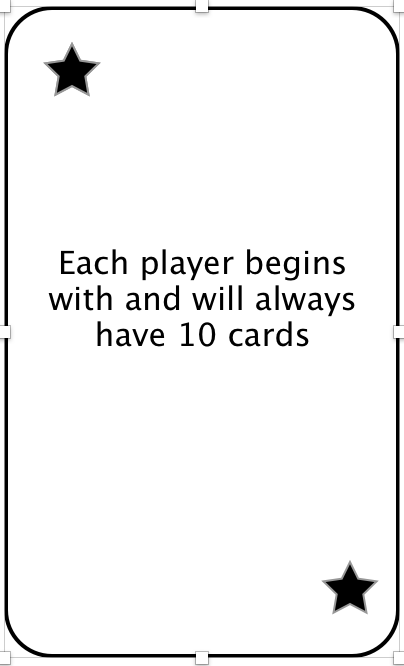
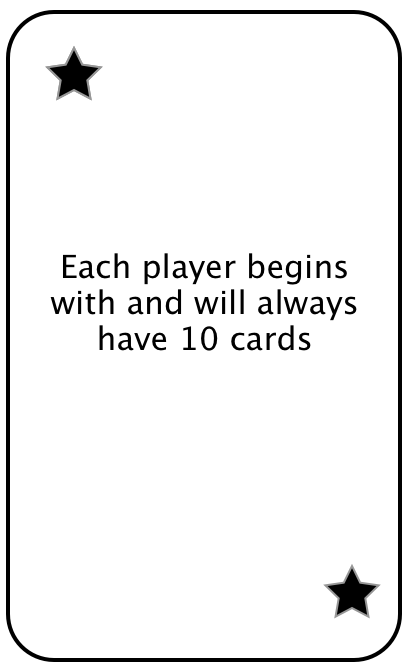
feat(implement-feedback):implement feedback - change to indentation from 4 spaces to 2 - change card image

diff --git a/public/views/index.html b/public/views/index.html
@@ -1,142 +1,136 @@
 <div landing>
   <nav class="navbar navbar-expand-sm navbar-light navbar-inverse bg-light fixed-top ">
-    <a class="navbar-brand type" href="#" style ="cursor:pointer"><span id = "cards">Cards</span> For Humanity</a>
-    <button class="navbar-toggler" type="button" data-toggle="collapse" data-target="#navbarSupportedContent" aria-controls="navbarSupportedContent" aria-expanded="false" aria-label="Toggle navigation">
-        <span class="navbar-toggler-icon"></span>
+    <a class="navbar-brand type" href="#" style="cursor:pointer">
+      <span id="cards">Cards</span> For Humanity</a>
+    <button class="navbar-toggler" type="button" data-toggle="collapse" data-target="#navbarSupportedContent" aria-controls="navbarSupportedContent"
+      aria-expanded="false" aria-label="Toggle navigation">
+      <span class="navbar-toggler-icon"></span>
     </button>
-
     <div class="collapse navbar-collapse" id="navbarSupportedContent" ng-controller="IndexController">
-        <ul class="navbar-nav ml-auto">         
-                <li class="nav-item" ng-show="showOptions">
-                <a href="#!/signup" class="nav-link nov mr-3 text-dark" style = "border-radius: 10px;">Sign Up</a>           
-                </li>
-                <li class="nav-item" ng-show="showOptions">
-                <a href="#!/signin" class="nav-link  mr-3 text-dark" style = "border-radius: 10px;">Sign In</a>
-                </li>
-           
-            <span ng-hide="showOptions">
-                <li >
-                  <a  class="nav-link  mr-3 text-dark" style = "border-radius: 10px;" ng-click="logOut()">Sign Out</a>
-                </li>
-            </span>     
-            <li class="nav-item">
-                <a href="#!" class="nav-link mr-3 text-dark" style = "border-radius: 10px;">Donate</a>
-            </li>
-        
-        </ul>    
-    </div>  
-    </nav>
-  <div id = "home-section">
-      <div id = "overlay">
+      <ul class="navbar-nav ml-auto">
+        <li class="nav-item" ng-show="showOptions">
+          <a href="#!/signup" class="nav-link nov mr-3 text-dark" style="border-radius: 10px;">Sign Up</a>
+        </li>
+        <li class="nav-item" ng-show="showOptions">
+          <a href="#!/signin" class="nav-link  mr-3 text-dark" style="border-radius: 10px;">Sign In</a>
+        </li>
+        <span ng-hide="showOptions">
+          <li>
+            <a class="nav-link  mr-3 text-dark" style="border-radius: 10px;" ng-click="logOut()">Sign Out</a>
+          </li>
+        </span>
+        <li class="nav-item">
+          <a href="#!" class="nav-link mr-3 text-dark" style="border-radius: 10px;">Donate</a>
+        </li>
+      </ul>
+    </div>
+  </nav>
+  <div id="home-section">
+    <div id="overlay">
       <div class="container-fluid">
-          <div class="row position">
-              <div class="col-md-12">
-                  <h1 id ="name" class="text-white type">Cards For Humanity</h1>
-                  <h3 id ="story" class="text-white type">...a game for good people</h3>
-                  <button onclick="window.location.href='/play'" class="button1 pl-3 pr-3 text-white mr-5">Play as a Guest</button>
-                  <button onclick="window.location.href='#!/signup'"class="button1 pl-5 pr-5 text-white ml-auto">Sign Up</button>
-              </div>
+        <div class="row position">
+          <div class="col-md-12">
+            <h1 id="name" class="text-white type">Cards For Humanity</h1>
+            <h3 id="story" class="text-white type">...a game for good people</h3>
+            <button onclick="window.location.href='/play'" class="button1 pl-3 pr-3 text-white mr-5">Play as a Guest</button>
+            <button onclick="window.location.href='#!/signup'" class="button1 pl-5 pr-5 text-white ml-auto">Sign Up</button>
           </div>
-
+        </div>
       </div>
-  </div>
+    </div>
   </div>
 
-  <section id ="explore-head-section" class="bg-light text-muted ">
-      <div class= "container-fluid">
-              <h3 class="head pt-3 type">How To Play...</h3>
-              
-        <div class= "pt-5">
-            <div class="row">
-        <div class = "col-lg-3 col-sm-12 ">
-              <img src="/img/cards/11.png" class="img-responsive img-size animated jackInTheBox">
+  <section id="explore-head-section" class="bg-light text-muted ">
+    <div class="container-fluid">
+      <h3 class="head pt-3 type">How To Play...</h3>
+      <div class="pt-5">
+        <div class="row">
+          <div class="col-lg-3 col-sm-12 ">
+            <img src="/img/cards/11.png" class="img-responsive img-size animated jackInTheBox">
+          </div>
+          <div class="col-lg-3 col-sm-12 ">
+            <img src="/img/cards/22.png" class="img-responsive img-size animated jackInTheBox">
+          </div>
+          <div class="col-lg-3 col-sm-12">
+            <img src="/img/cards/33.png" class="img-responsive img-size animated jackInTheBox">
+          </div>
+          <div class="col-lg-3 col-sm-12 ">
+            <img src="/img/cards/44.png" class="img-responsive img-size animated jackInTheBox">
+          </div>
+          <button class="btn btn-outline-secondary play mt-5 mb-5">PLAY</button>
         </div>
-        <div class = "col-lg-3 col-sm-12 ">
-              <img src="/img/cards/22.png" class="img-responsive img-size animated jackInTheBox">
-        </div>
-        <div class = "col-lg-3 col-sm-12">
-              <img src="/img/cards/33.png" class="img-responsive img-size animated jackInTheBox">
-        </div>
-        <div class = "col-lg-3 col-sm-12 ">
-              <img src="/img/cards/44.png" class="img-responsive img-size animated jackInTheBox">
-        </div>
-        <button class="btn btn-outline-secondary play mt-5 mb-5">PLAY</button>
-      </div>
-      
-</section>
+  </section>
 
-<!-- Donation Info Start -->
-<section class="back">
+  <!-- Donation Info Start -->
+  <section class="back">
     <h3 class="head pt-3 text-white type">DONATE</h3>
     <div class="container mt-5">
-        <div class="row">
+      <div class="row">
         <div class="col-md-6 col-sm-12">
-                <p>When you donate, you would be giving strength to a child battling with  a life threatening medical condition in the world.</p><br>
-                        
-                <p>Sounds great right?, donate  today   to   grant the wish of a child. </p><br>
-                        
-                <p>All donations go to the Make-a-Wish foundation</p> 
-                <button class="donate btn btn-outline bg-dark text-white">DONATE TODAY</button>
+          <p>When you donate, you would be giving strength to a child battling with a life threatening medical condition in
+            the world.</p>
+          <br>
+          <p>Sounds great right?, donate today to grant the wish of a child. </p>
+          <br>
+          <p>All donations go to the Make-a-Wish foundation</p>
+          <button class="donate btn btn-outline bg-dark text-white">DONATE TODAY</button>
         </div>
         <div class="col-md-6 col-sm-12 mb-5">
-            
-            <iframe width="700" height="315" src="https://www.youtube.com/embed/Zan22LB1Rnk" frameborder="0" allowfullscreen></iframe>
+          <iframe width="700" height="315" src="https://www.youtube.com/embed/Zan22LB1Rnk" frameborder="0" allowfullscreen></iframe>
         </div>
+      </div>
     </div>
-    </div>
-</section>
+  </section>
 
 
-<!-- About Us Start -->
-<section>
+  <!-- About Us Start -->
+  <section>
     <h3 class="head mt-5 pb-5 type">MEET THE TEAM</h3>
     <div class="container-fluid">
-        <div class="row">
-            <div class="col-xs-6 col-sm-4 col-md-1"></div>
-            <div class=" col-xs-6 col-sm-4 col-md-2 ">
-                <img src="/img/team/osaze.jpg" alt="image-1" class="team">
-                <h4 class="team-name pb-5">Osaze Edo-Osagie</h4>
-            </div>
-            <div class=" col-xs-6 col-sm-4 col-md-2 ">
-                <img src="/img/team/emma.jpg" alt="image-1" class="team">
-                <h4 class="team-name pb-5">Okonji Emmanuel</h4>                        
-            </div>
-            <div class=" col-xs-6 col-sm-4 col-md-2">
-                <img src="/img/team/fred.jpg" alt="image-1" class="team">
-                <h4 class="team-name pb-5">Fred Adewole</h4>                        
-            </div>
-            <div class=" col-xs-6 col-sm-4 col-md-2">
-                <img src="/img/team/chuks.jpg" alt="image-1" class="team">
-                <h4 class="team-name pb-5">Durugo Chukwukadibia</h4>                        
-            </div>
-            <div class="col-xs-6 col-sm-4 col-md-2">
-                <img src="/img/team/chike.jpg" alt="image-1" class="team">
-                <h4 class="team-name pb-5">Chinwoke Hyginus</h4>                        
-            </div>
-        </div>
-    </div>
-</section>
-
-<!-- Footer Start -->
-<footer id="main-footer" class ="navbar-static-bottom ">
-    <div class= "container">
       <div class="row">
-        <div class ="col-md-6 ">
+        <div class="col-xs-6 col-sm-4 col-md-1"></div>
+        <div class=" col-xs-6 col-sm-4 col-md-2 ">
+          <img src="/img/team/osaze.jpg" alt="image-1" class="team">
+          <h4 class="team-name pb-5">Osaze Edo-Osagie</h4>
+        </div>
+        <div class=" col-xs-6 col-sm-4 col-md-2 ">
+          <img src="/img/team/emma.jpg" alt="image-1" class="team">
+          <h4 class="team-name pb-5">Okonji Emmanuel</h4>
+        </div>
+        <div class=" col-xs-6 col-sm-4 col-md-2">
+          <img src="/img/team/fred.jpg" alt="image-1" class="team">
+          <h4 class="team-name pb-5">Fred Adewole</h4>
+        </div>
+        <div class=" col-xs-6 col-sm-4 col-md-2">
+          <img src="/img/team/chuks.jpg" alt="image-1" class="team">
+          <h4 class="team-name pb-5">Durugo Chukwukadibia</h4>
+        </div>
+        <div class="col-xs-6 col-sm-4 col-md-2">
+          <img src="/img/team/chike.jpg" alt="image-1" class="team">
+          <h4 class="team-name pb-5">Chinwoke Hyginus</h4>
+        </div>
+      </div>
+    </div>
+  </section>
+
+  <!-- Footer Start -->
+  <footer id="main-footer" class="navbar-static-bottom ">
+    <div class="container">
+      <div class="row">
+        <div class="col-md-6 ">
           <div class="py-2 text-white">
             <h1 class="h3">Cards For Humanity</h1>
-            <p class="info">Cards for humanity is an online game to encourage donations to Lorem ipsum dolor sit amet consectetur adipisicing elit. Magni nam saepe totam neque ipsum est ut labore corrupti iusto ad numquam dolor rerum quas, dolorum, tempore molestias. Voluptas, adipisci est.</p>
-            
-          </div>            
+            <p class="info">Cards for humanity is an online game to encourage donations to Lorem ipsum dolor sit amet consectetur adipisicing
+              elit. Magni nam saepe totam neque ipsum est ut labore corrupti iusto ad numquam dolor rerum quas, dolorum,
+              tempore molestias. Voluptas, adipisci est.</p>
+          </div>
         </div>
-        <div class ="col-md-6 text-center">
+        <div class="col-md-6 text-center">
           <div class="py-2 text-white">
             <p>Copyright &copy; 2017</p>
-          </div>            
+          </div>
         </div>
-        
       </div>
-      
     </div>
-    
   </footer>
-</div>
+  </div>
